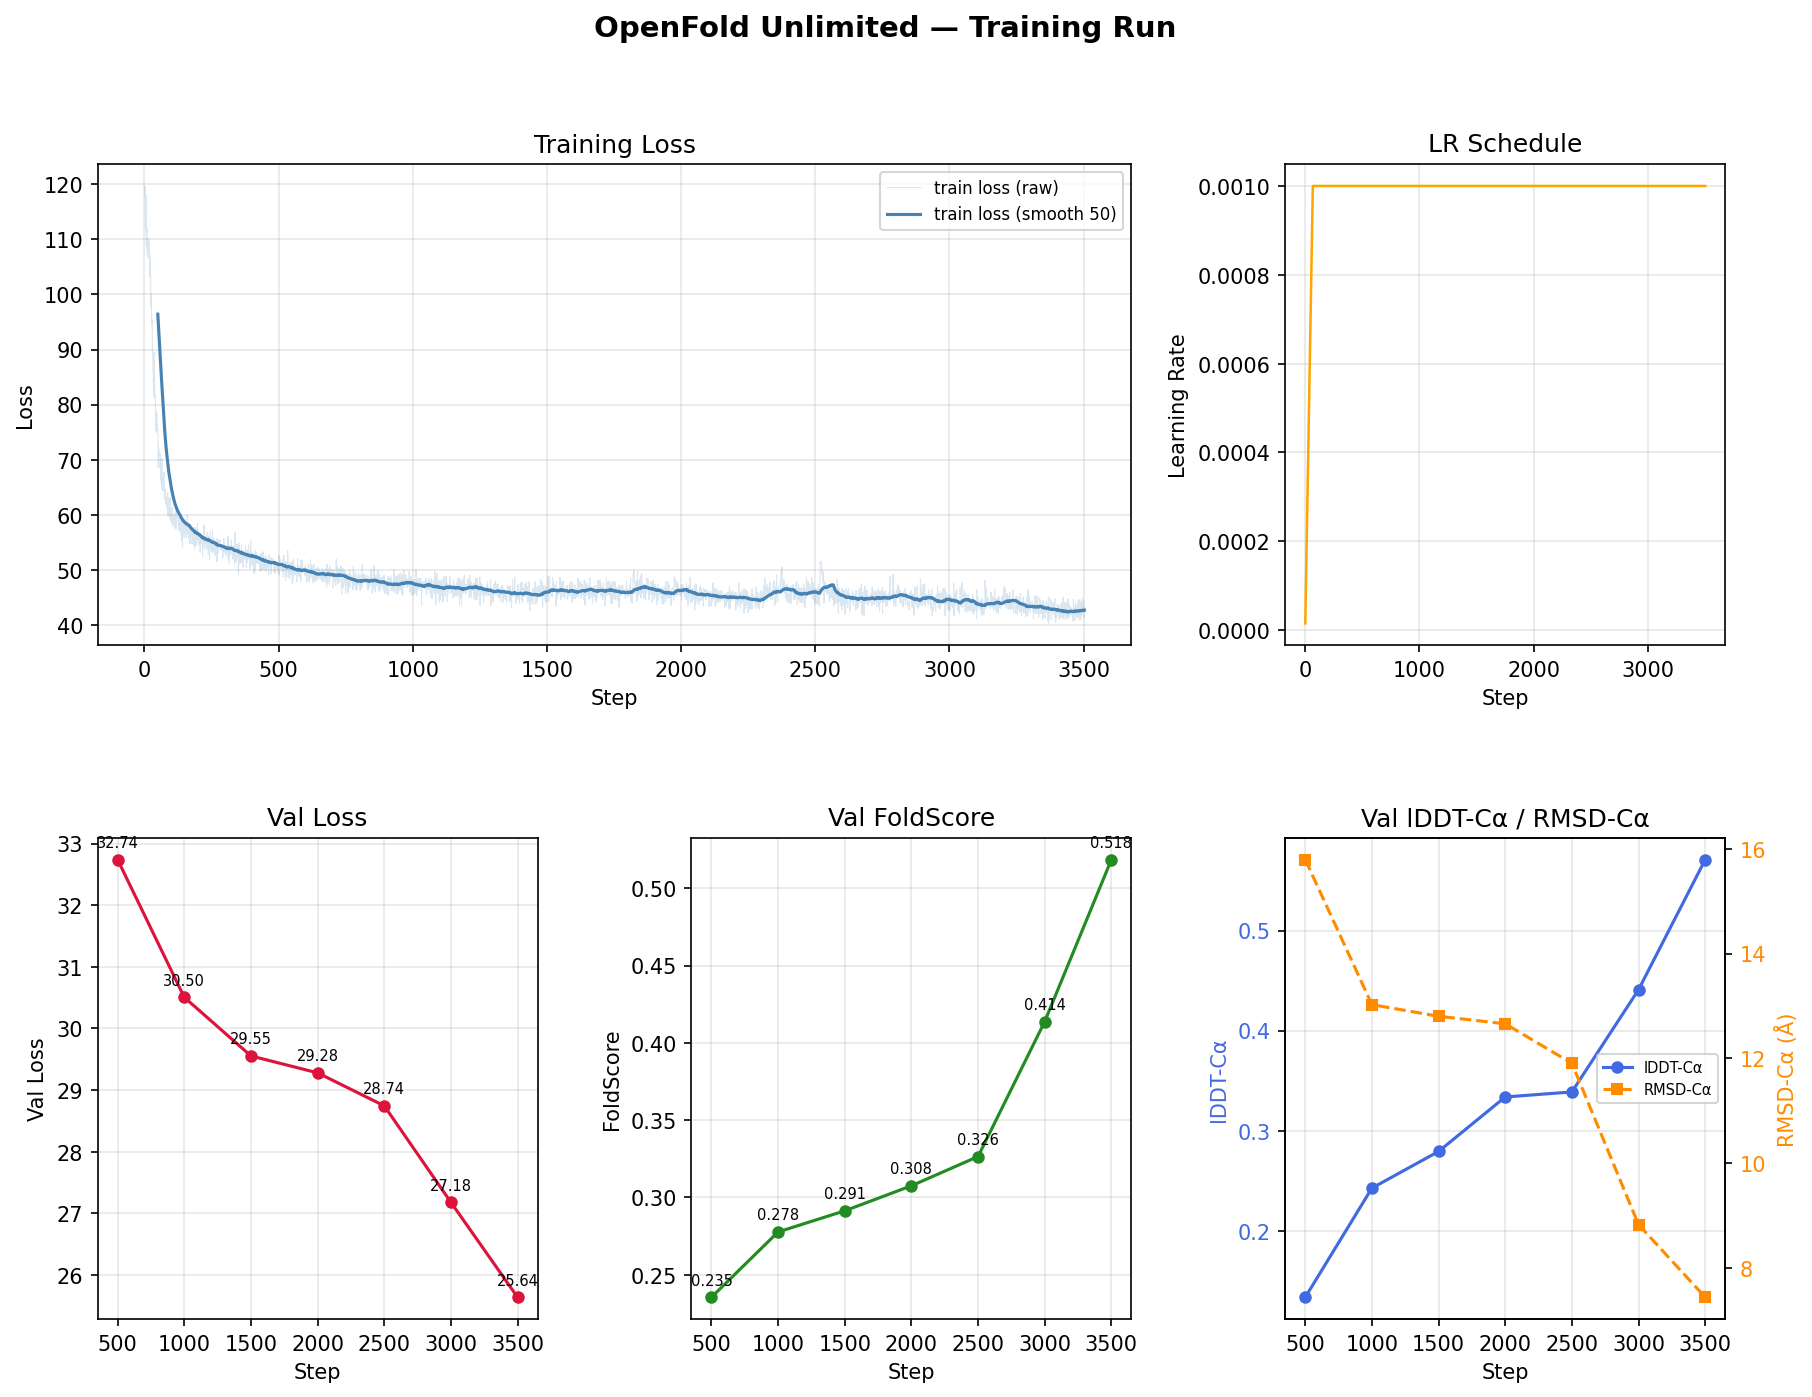
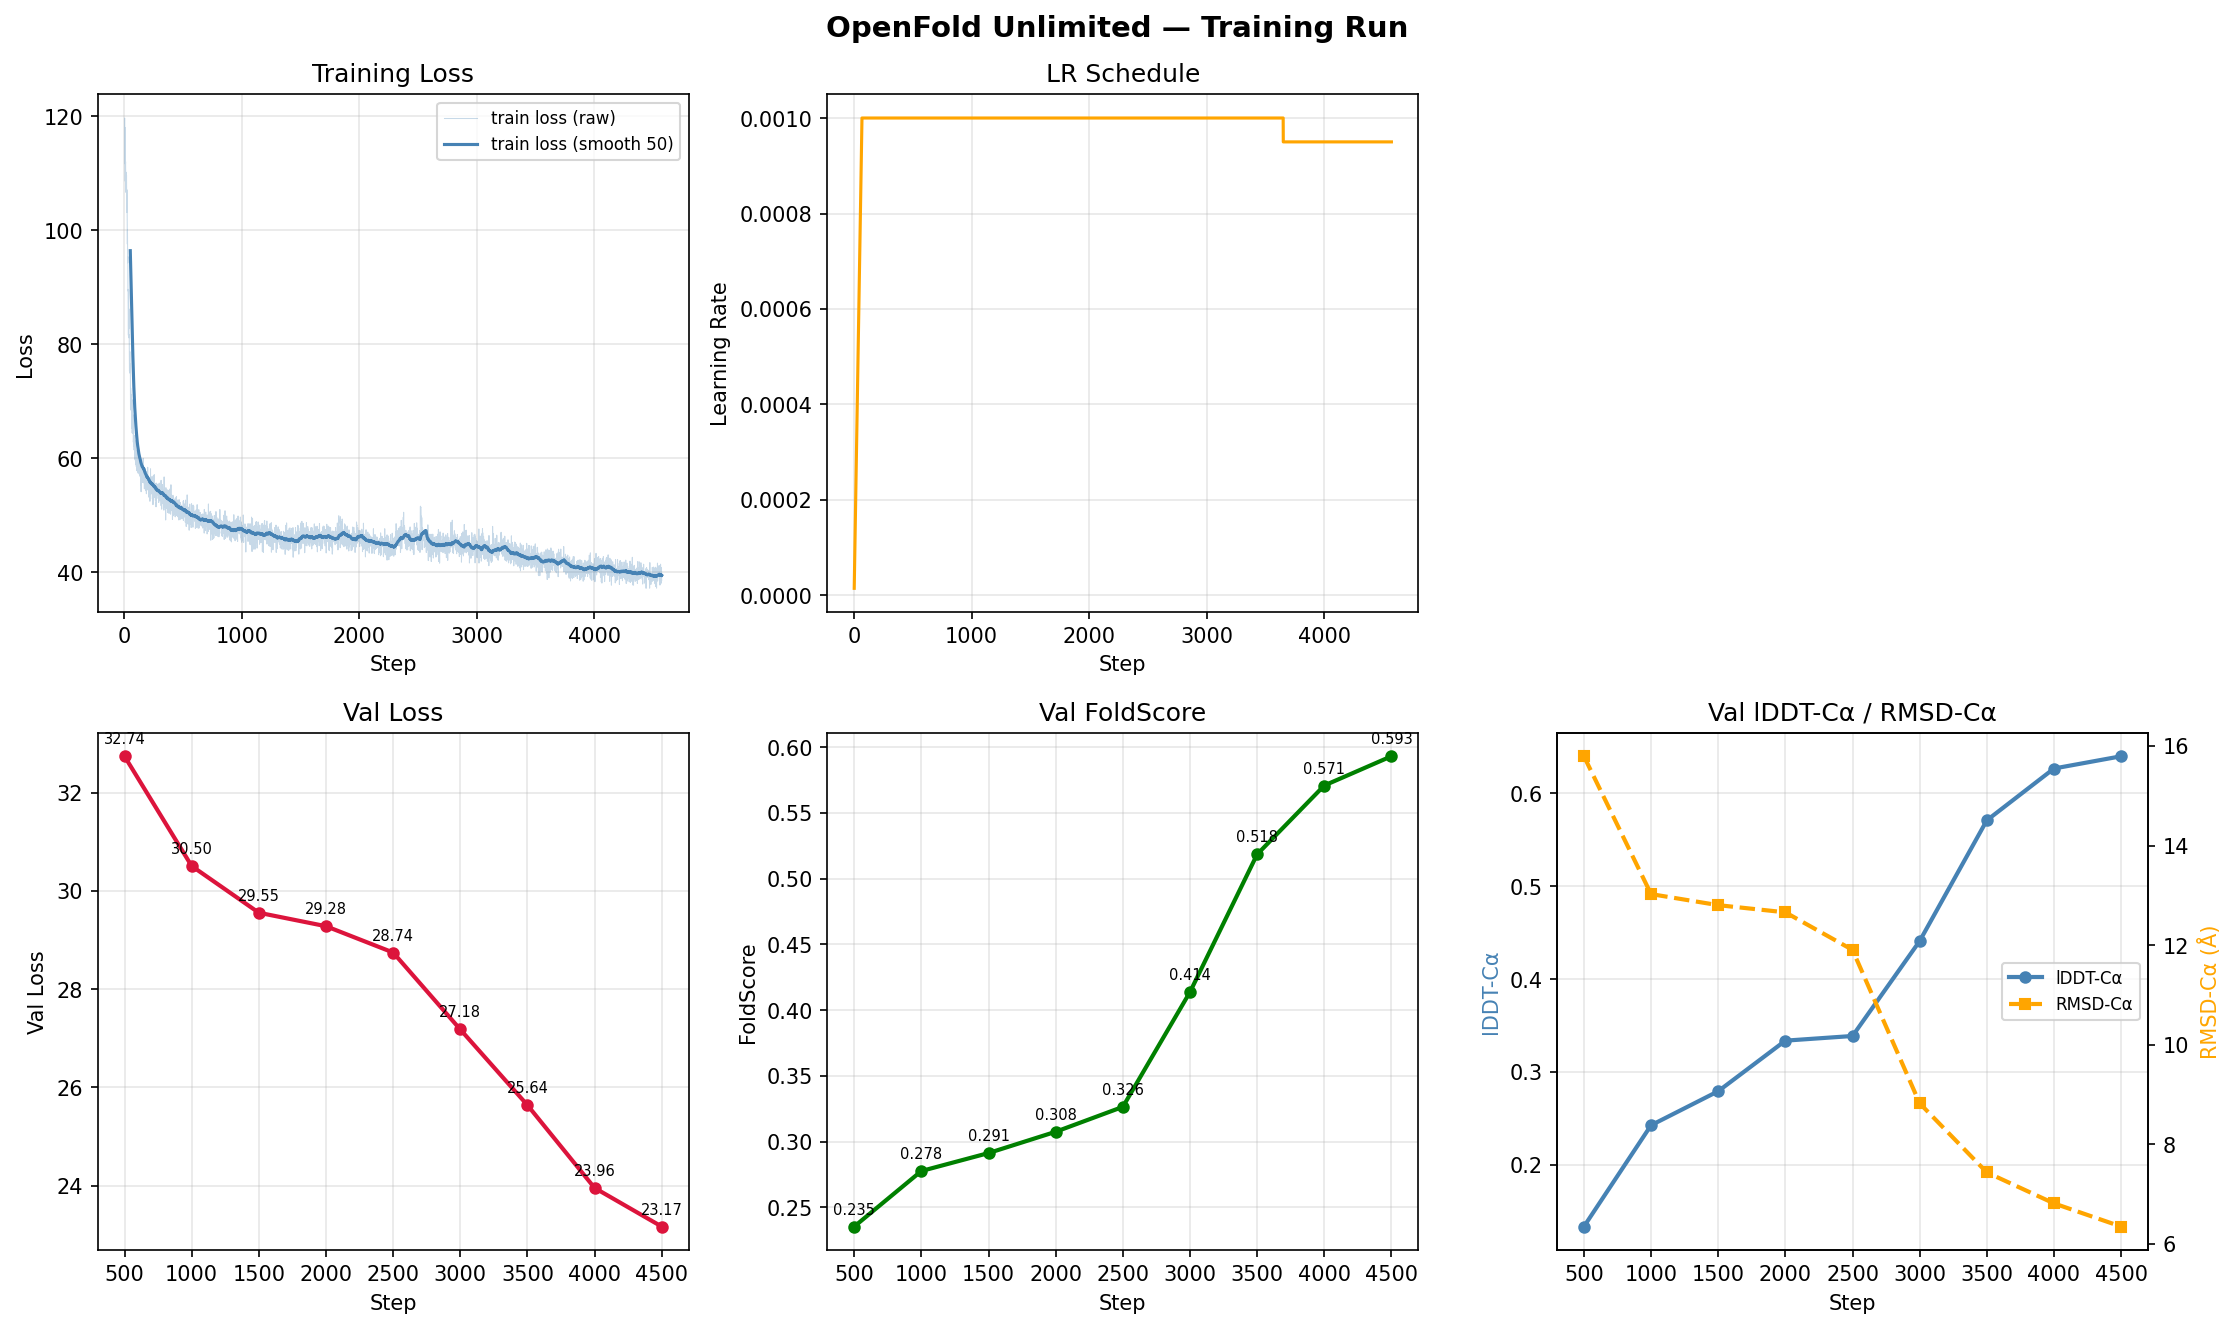
Update val metrics and training plots through step 4500

diff --git a/docs/openfold2_baseline.md b/docs/openfold2_baseline.md
@@ -100,3 +100,5 @@ The first run crashed at step 500 during validation with an NCCL `ALLREDUCE` tim
 | 2500 | 28.745 | 0.326 | 0.339 | 11.90 |
 | 3000 | 27.180 | 0.414 | 0.441 | 8.82  |
 | 3500 | 25.640 | 0.519 | 0.571 | 7.44  |
+| 4000 | 23.955 | 0.571 | 0.627 | 6.81  |
+| 4500 | 23.169 | 0.593 | 0.640 | 6.35  |